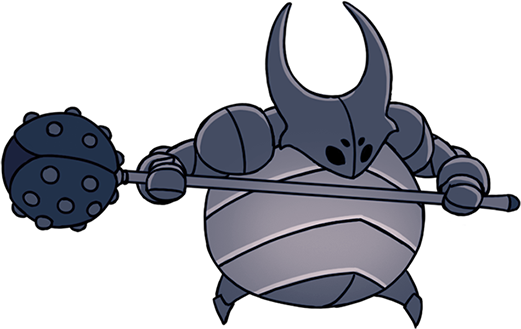
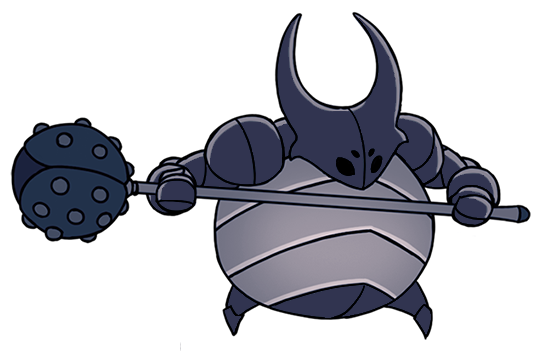
boss change

Changed region(s): [[0.0, 0.0, 1.0, 1.0]]

diff --git a/src/object/Hero.java b/src/object/Hero.java
@@ -27,8 +27,9 @@ public class Hero extends MoveableCharacter {
 	private Delay dash = new Delay(0);
 	private Delay dashCooldown = new Delay(0);
 	private Delay unstable = new Delay(0);
+	protected Delay immune = new Delay(0);
 	private boolean doubleJumped = true;
-	private boolean doubleJumpable, dashable;
+	private boolean inAir, doubleJumpable, dashable;
 	private HpBar hpBar;
 	
 	public Hero() {
@@ -66,20 +67,6 @@ public class Hero extends MoveableCharacter {
 		body.getChildren().get(1).setLayoutX(turnLeft ? 0 : -120);
 	}
 	
-	protected void changeArt(String art) {
-		body.getChildren().forEach((i)->{
-			i.setVisible(false);
-		});
-		switch(art) {
-		case "normal":
-			body.getChildren().get(0).setVisible(true);
-			break;
-		case "dash":
-			body.getChildren().get(1).setVisible(true);
-			break;
-		}
-	}
-	
 	public void die() {
 		
 		Main.worldMap.setCerrentMap(MapName.Starter, 500, 100);
@@ -90,6 +77,7 @@ public class Hero extends MoveableCharacter {
 		makeImmune(recoverTime);
 		makeUnstable(recoverTime/2);
 		dash.interrupt();
+		dashable = true;
 		super.attacked(damage, knockbackX, knockbackY);
 	}
 	
@@ -99,13 +87,26 @@ public class Hero extends MoveableCharacter {
 		body.setLayoutY(y - Main.worldMap.getViewY());
 	}
 	
-	public void landing() {
-		inAir = false;
-		doubleJumped = false;
-		doubleJumpable = false;
-		if(!dashCooldown.isAlive()) {
-			dashable = true;
+	protected void moveY() {
+		if(dy > maxFallSpeed && fallSpeedLimit) {
+			dy = maxFallSpeed;
 		}
+		if(dy < 0) {
+			topCheck();
+			inAir = true;
+		}else if(dy >= 0) {
+			if(landingCheck()) {
+				inAir = false;
+				doubleJumped = false;
+				doubleJumpable = false;
+				if(!dashCooldown.isAlive()) {
+					dashable = true;
+				}
+			}else {
+				inAir = true;
+			}
+		}
+		y += dy;
 	}
 	
 	public void reset() {
@@ -113,6 +114,7 @@ public class Hero extends MoveableCharacter {
 		unstable.interrupt();
 		jump.interrupt();
 		dash.interrupt();
+		immune.interrupt();
 		dashCooldown.interrupt();
 		dashCooldown = new Delay(100);
 		doubleJumped = true;
@@ -153,6 +155,27 @@ public class Hero extends MoveableCharacter {
 			return false;
 		}
 		return super.landingCheck();
+	}
+	
+	public boolean hitCheck(double x, double y, double width, double height) {
+		if(immune.isAlive()) {
+			return false;
+		}
+		return super.hitCheck(x, y, width, height);
+	}
+	
+	private void changeArt(String art) {
+		body.getChildren().forEach((i)->{
+			i.setVisible(false);
+		});
+		switch(art) {
+		case "normal":
+			body.getChildren().get(0).setVisible(true);
+			break;
+		case "dash":
+			body.getChildren().get(1).setVisible(true);
+			break;
+		}
 	}
 	
 	public void frontAttack() {

diff --git a/src/monster/False_Knight.java b/src/monster/False_Knight.java
@@ -1,5 +1,6 @@
 package monster;
 
+import application.Delay;
 import application.Main;
 import javafx.scene.image.Image;
 import javafx.scene.image.ImageView;
@@ -9,8 +10,10 @@ public class False_Knight extends Boss {
 	
 	public False_Knight(double x, double y) {
 		super(x, y, 200, 250);
-		body.getChildren().add(new ImageView(new Image("file:image/Character/False_Knight.png",500,300,false,true)));
-		body.getChildren().get(0).setLayoutY(-50);
+		body.getChildren().add(new ImageView(new Image("file:image/Character/False_Knight.png",550,350,false,true)));
+		body.getChildren().get(0).setLayoutY(-80);
+		body.getChildren().add(new ImageView(new Image("file:image/Character/False_Knight_Charge.png",500,300,false,true)));
+		body.getChildren().get(1).setLayoutY(-50);
 		friction = 0.2;
 		speed = 2;
 		maxHp = 150;
@@ -18,13 +21,54 @@ public class False_Knight extends Boss {
 	}
 	
 	public void setMovement() {
-		dx += ((Main.hero.getX()+Main.hero.getSize()[0]/2 < x+size[0]/2 ? -speed : speed) - dx)*friction;
-		dy += gravity;
-		turnLeft = Main.hero.getX()+Main.hero.getSize()[0]/2 < x+size[0]/2;
+		if(hold.isAlive()) {
+			dx -= dx*friction;
+			dy += gravity;
+			switch(cerrentStage) {
+			case "normal":
+				turnLeft = Main.hero.getX()+Main.hero.getSize()[0]/2 < x+size[0]/2;
+				break;
+			}
+				
+		}else {
+			changeStage(cerrentStage);
+		}
+	}
+	
+	protected void changeStage(String stage) {
+		switch(stage) {
+		case "normal":
+			changeArt("charge");
+			hold = new Delay(1000);
+			break;
+		case "charge":
+			if(Main.hero.hitCheck(turnLeft ? x-250 : x+200, y, 250, size[1])) {
+				Main.hero.attacked(attackDamage, turnLeft ? -25 : 25, 15);
+			}
+			changeArt("normal");
+			hold = new Delay(2000);
+			break;
+		}
+	}
+	
+	protected void changeArt(String art) {
+		cerrentStage = art;
+		body.getChildren().forEach((i)->{
+			i.setVisible(false);
+		});
+		switch(art) {
+		case "normal":
+			body.getChildren().get(0).setVisible(true);
+			break;
+		case "charge":
+			body.getChildren().get(1).setVisible(true);
+			break;
+		}
 	}
 	
 	public void turn() {
-		body.getChildren().get(0).setLayoutX(turnLeft ? -100 : -200);
+		body.getChildren().get(0).setLayoutX(turnLeft ? -125 : -225);
+		body.getChildren().get(1).setLayoutX(turnLeft ? -50 : -250);
 		super.turn();
 	}
 

diff --git a/src/application/Main.java b/src/application/Main.java
@@ -14,6 +14,7 @@ public class Main extends Application {
 	public static Stage cerrentStage;
 	public static Group game = new Group();
 	public static Group HpBar = new Group();
+	public static Group inventory = new Group();
 	public static World worldMap;
 	public static Hero hero;
 
@@ -27,9 +28,10 @@ public class Main extends Application {
 		hero = new Hero();
 		createWorld();
 		worldMap.setCerrentMap(MapName.Starter, 500, 100);
-		Scene scene = new Scene(new Group(game, HpBar), 1000, 600);
+		Scene scene = new Scene(new Group(game, HpBar, inventory), 1000, 600);
 		HpBar.setLayoutX(50);
 		HpBar.setLayoutY(50);
+		
 		stage.setScene(scene);
 		Controller.setKey();
 		stage.setTitle("MyGame");
@@ -59,7 +61,7 @@ public class Main extends Application {
 		map.addPlatform(new  Platform("file:image/Platform/PlatformLeft1.jpg",2360,0,200,1020,false,true,true,false));
 		map.addEnemy(new Vengefly(1500,500));
 		map.addEnemy(new Vengefly(1700,1000));
-		map.addEnemy(new Vengefly(1500,1200));
+		map.addEnemy(new Vengefly(1400,1200));
 		worldMap.addMap(MapName.Starter, map);
 	}
 	
@@ -72,7 +74,6 @@ public class Main extends Application {
 		map.addPlatform(new  Platform("file:image/Platform/PlatformFloor2.jpg",0,1260,2560,218,true,false));
 		map.addPlatform(new  Platform("file:image/Platform/PlatformLeft1.jpg",0,0,200,1020,false,true));
 		map.addPlatform(new  Platform("file:image/Platform/PlatformLeft1.jpg",2360,0,200,1370,false,true,true,false));
-		map.addEnemy(new Vengefly(1500,1200));
 		map.addEnemy(new False_Knight(1000,1010));
 		map.addEnemy(new Glimback(1400,1080));
 		map.addEnemy(new Glimback(2000,1080));

diff --git a/src/application/Controller.java b/src/application/Controller.java
@@ -10,8 +10,7 @@ import javafx.scene.input.KeyEvent;
 public class Controller {
 	
 	private static AnimationTimer gameLoop;
-	private static boolean left, right, up, down, jump, attack, dash;
-	private static int direction;
+	private static boolean left, right, up, down, jump, attack, dash, pause;
 	
 	public static void startTimer() {
 		gameLoop = new AnimationTimer() {
@@ -94,29 +93,24 @@ public class Controller {
 	}
 	
 	private static void updateHero(){
-		direction = 0;
-		if (left) {
-			direction += -1;
-			if(!right) {
-				Main.hero.setTurnLeft(true);
-			}
+		if (left && !right && !pause) {
+			Main.hero.walk(-1);
+			Main.hero.setTurnLeft(true);
+		}else if (right && !left && !pause) {
+			Main.hero.walk(1);
+			Main.hero.setTurnLeft(false);
+		}else {
+			Main.hero.walk(0);
 		}
-		if (right) {
-			direction += 1;
-			if(!left) {
-				Main.hero.setTurnLeft(false);
-			}
-		}
-		Main.hero.walk(direction);
-		if (jump) {
+		if (jump && !pause) {
 			Main.hero.jumping();
 		}else {
 			Main.hero.stopJump();
 		}
-		if (dash) {
+		if (dash && !pause) {
 			Main.hero.dash();
 		}
-		if(attack) {
+		if(attack && !pause) {
 			if(down && !up) {
 				Main.hero.downwardSlash();
 			}else if(up && !down){

diff --git a/src/object/MoveableCharacter.java b/src/object/MoveableCharacter.java
@@ -1,19 +1,12 @@
 package object;
 
-import application.Delay;
-
 public abstract class MoveableCharacter extends MoveableObject implements Destroyable {
 	
 	protected double maxHp, hp, attackDamage;
-	protected boolean inAir;
 	protected boolean turnLeft;
-	protected Delay immune = new Delay(0);
 	
 	public MoveableCharacter(double x, double y, double width, double height) {
 		super(x, y, width, height);
-	}
-	
-	protected void changeArt(String art) {
 	}
 	
 	public void move() {
@@ -27,13 +20,8 @@ public abstract class MoveableCharacter extends MoveableObject implements Destro
 		}
 		if(dy < 0) {
 			topCheck();
-			inAir = true;
 		}else if(dy >= 0) {
-			if(landingCheck()) {
-				landing();
-			}else {
-				inAir = true;
-			}
+			landingCheck();
 		}
 		y += dy;
 	}
@@ -65,15 +53,10 @@ public abstract class MoveableCharacter extends MoveableObject implements Destro
 		dx = 0;
 		dy = 0;
 		turnLeft = false;
-		immune.interrupt();
 	}
 	
 	public void turn() {
 		body.setScaleX(turnLeft ? -1 : 1);
-	}
-	
-	public void landing() {
-		inAir = false;
 	}
 	
 	public double getHp() {

diff --git a/src/object/Boss.java b/src/object/Boss.java
@@ -1,8 +1,15 @@
 package object;
 
 import application.Main;
+import application.Delay;
 
 public abstract class Boss extends MoveableEnemy {
+	
+	protected Delay hold = new Delay(0);
+	protected String cerrentStage = "normal";
+	
+	protected abstract void changeStage(String stage);
+	protected abstract void changeArt(String art);
 	
 	public Boss(double x, double y, double width, double height) {
 		super(x, y, width, height);
@@ -11,6 +18,11 @@ public abstract class Boss extends MoveableEnemy {
 	public void die() {
 		Main.worldMap.getCerrentMap().getEnemyList().remove(this);
 		super.die();
+	}
+	
+	public void reset() {
+		changeArt("normal");
+		super.reset();
 	}
 	
 }

diff --git a/src/object/MoveableEnemy.java b/src/object/MoveableEnemy.java
@@ -32,7 +32,7 @@ public abstract class MoveableEnemy extends MoveableCharacter implements Enemy {
 	public void action() {
 		setMovement();
 		move();
-		if(!Main.hero.immune.isAlive() && Main.hero.hitCheck(x, y, size[0], size[1])) {
+		if(Main.hero.hitCheck(x, y, size[0], size[1])) {
 			Main.hero.attacked(attackDamage, Main.hero.getX()+Main.hero.getSize()[0]/2 < x+size[0]/2 ? -25 : 25, 15);
 		}
 	}
